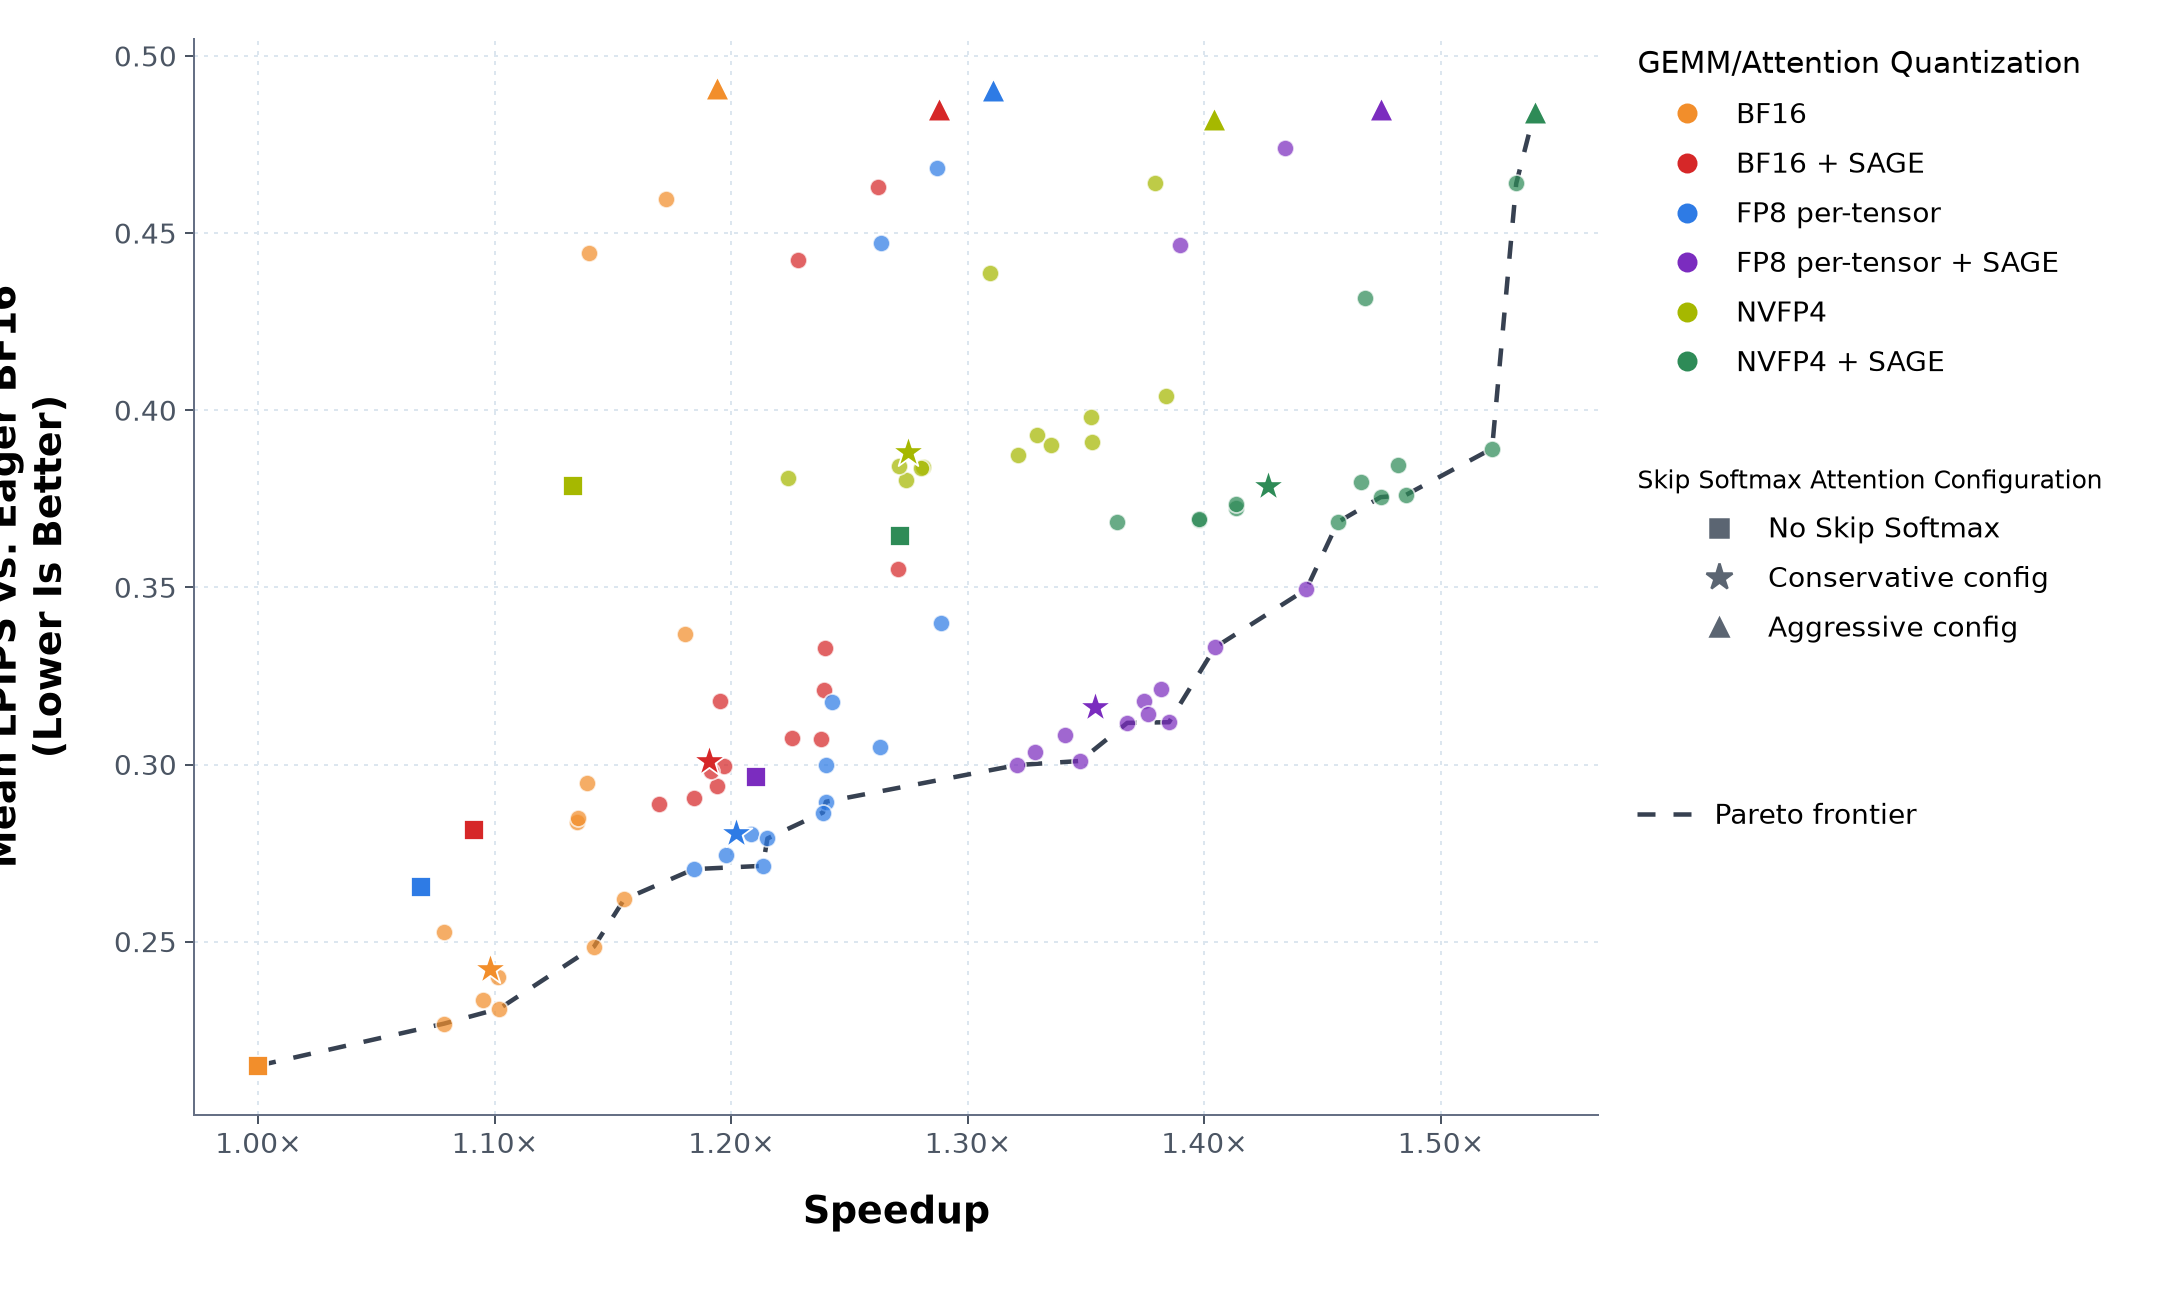
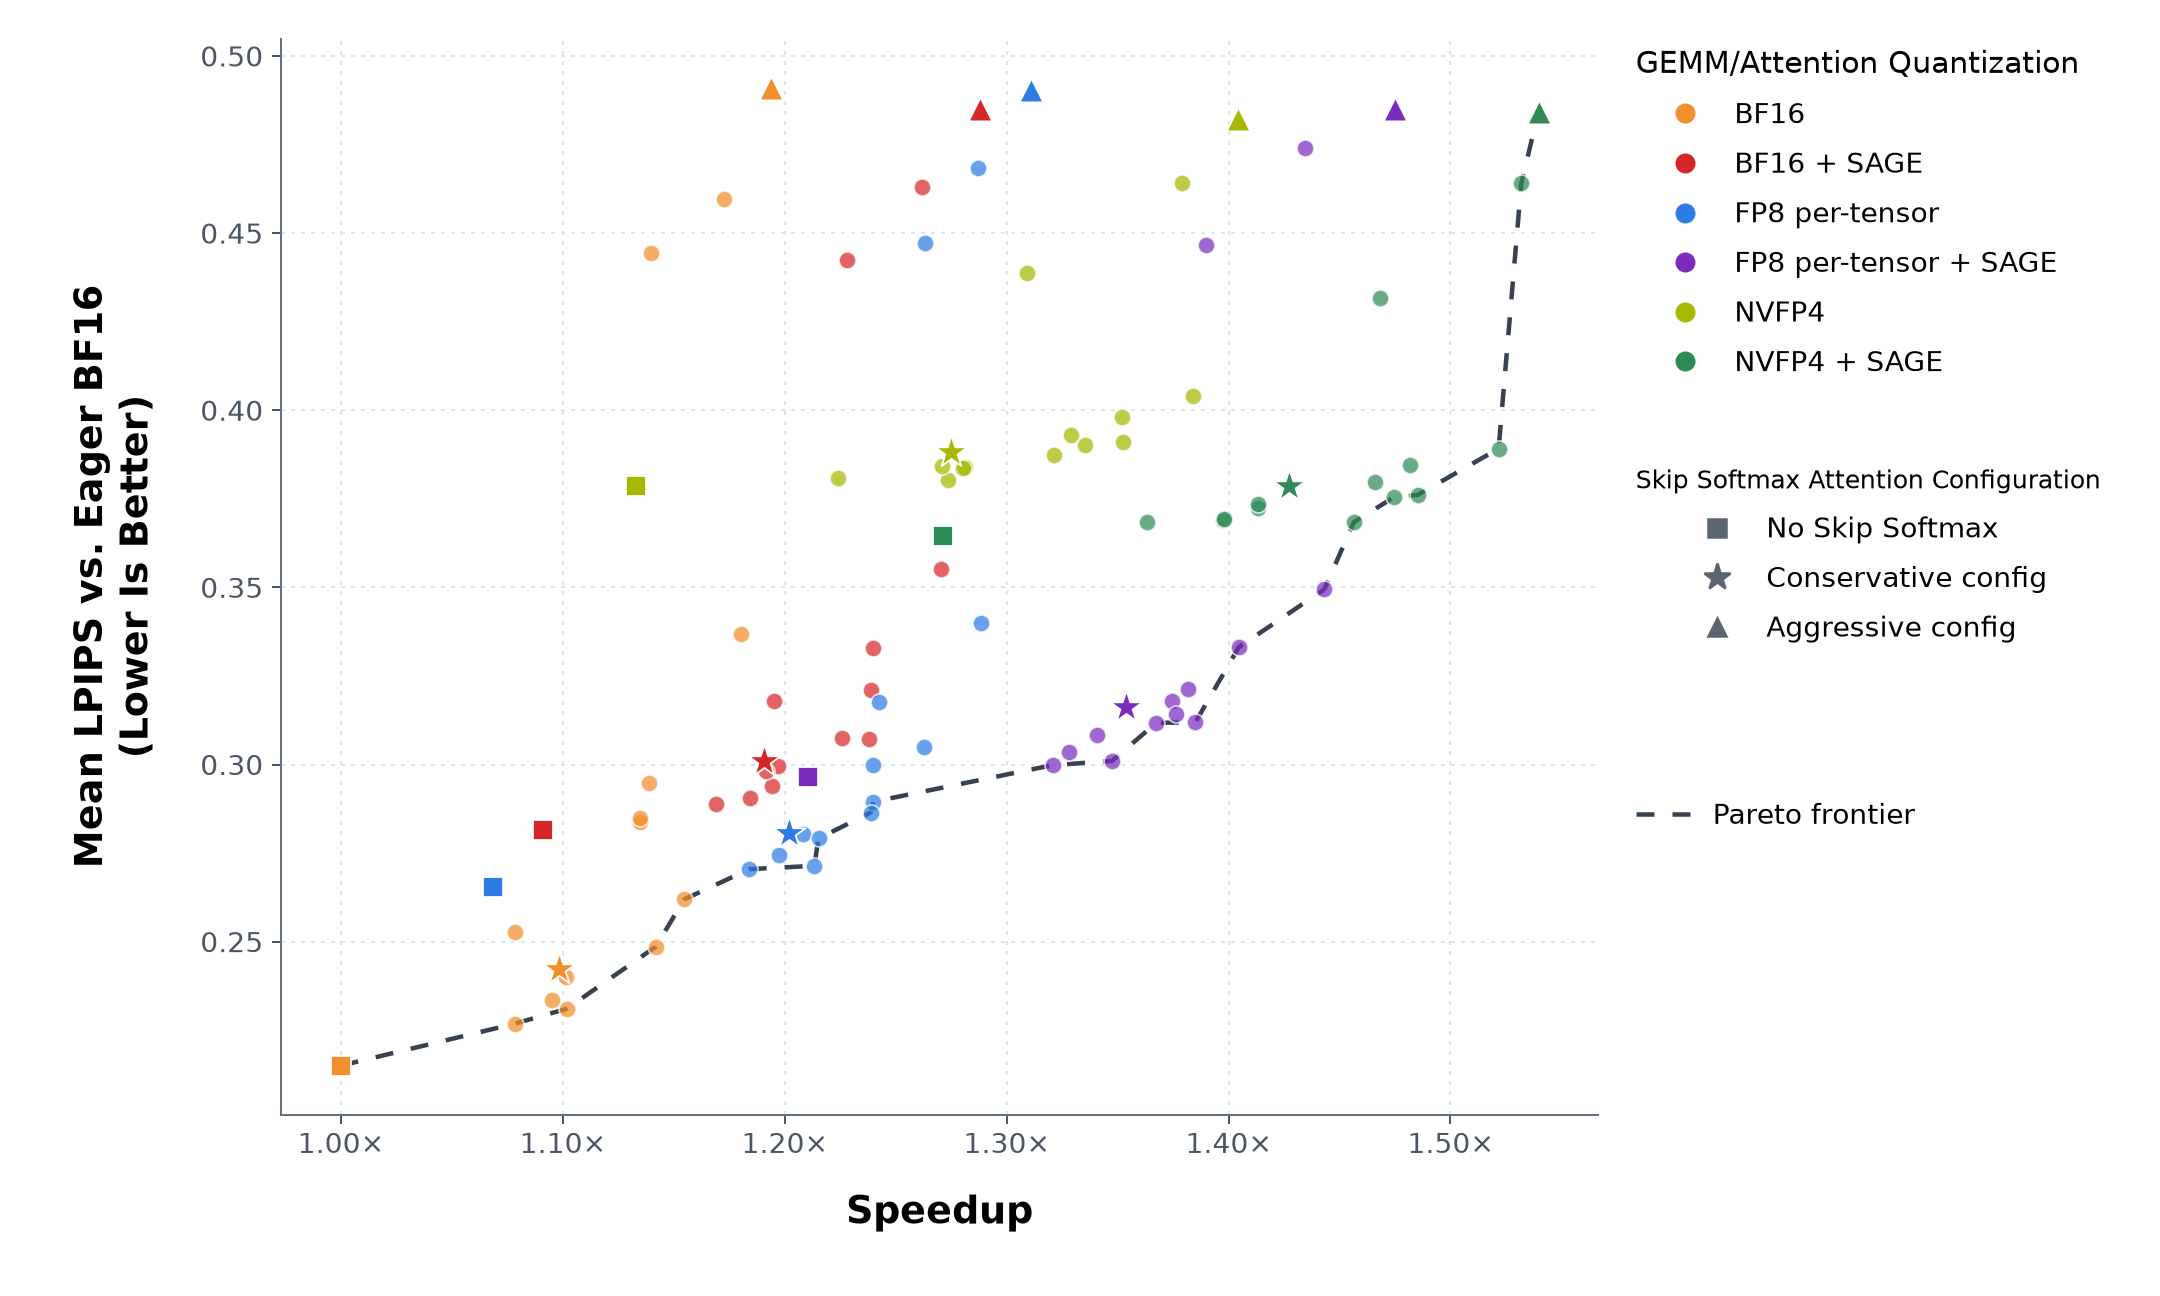
[docs] address final Blog 28 review feedback

diff --git a/docs/source/blogs/tech_blog/blog28_Accelerating_Video_Generation_with_GEMM_Quantization_Attention_Quantization_and_Skip_Softmax_Attention_in_TensorRT-LLM.md b/docs/source/blogs/tech_blog/blog28_Accelerating_Video_Generation_with_GEMM_Quantization_Attention_Quantization_and_Skip_Softmax_Attention_in_TensorRT-LLM.md
@@ -121,7 +121,7 @@ Figure 2 organizes the 96 data points in two levels. Color identifies one of six
 - **Conservative:** `target_sparsity=0.75`, `disabled_until_timestep=0.86`, shown as a star.
 - **Aggressive:** `target_sparsity=0.75`, `disabled_until_timestep=1.00`, shown as a triangle.
 
-The remaining Skip Softmax configurations are circles, and the dashed line traces the global Pareto frontier across all six families.
+The aggressive point shows the upper-speed end of the sweep rather than a recommended setting. The remaining Skip Softmax configurations are circles, and the dashed line traces the global Pareto frontier across all six families.
 
 <p align="center">
   <img src="../media/tech_blog28_quality_speed_frontier.png" alt="Scatter plot of speedup versus mean LPIPS for the Wan 2.2 optimization sweep, with squares for runs without Skip Softmax, stars for conservative configurations, triangles for aggressive configurations, and a dashed global Pareto frontier" width="1080">
@@ -180,7 +180,7 @@ The six videos below are grouped by GEMM precision, with the SAGE variant on the
 
 <p align="center"><sub><em>Figure 4. P1 video comparison across the eager BF16 reference and six conservative Skip Softmax configurations.</em></sub></p>
 
-Figure 5 expands the first-frame comparison to all seven prompts. Each row compares the eager reference with the same six conservative configurations as Figure 4, and each generated frame retains its original 384×216 pixels.
+Figure 5 expands the first-frame comparison to all seven prompts. Each row compares the eager reference with the same six conservative configurations as Figure 4. The previews are downsampled from the original videos.
 
 <p align="center">
   <img src="../media/tech_blog28_visual_comparison_p01_cat_garden.jpg" alt="First-frame comparison for a cat in a sunlit garden, with an eager BF16 reference and six conservative Skip Softmax results across the GEMM and attention configurations" width="1080">
